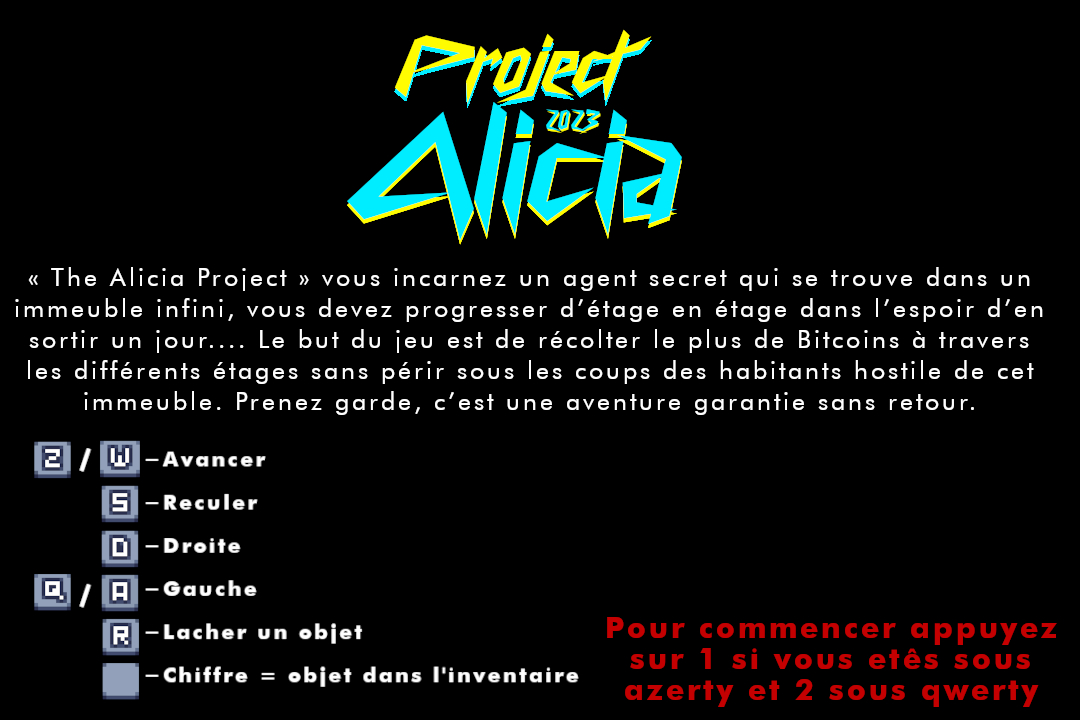
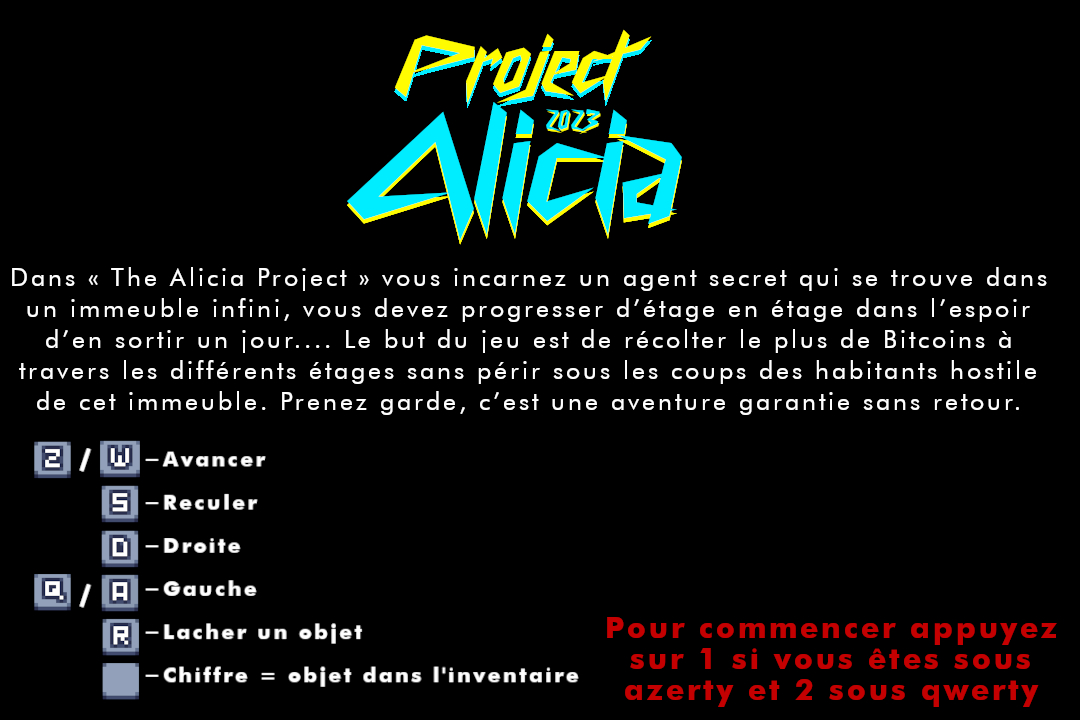
add bg image

Changed region(s): [[0.0, 0.3667, 0.9778, 0.5806]]

diff --git a/Game.py b/Game.py
@@ -191,6 +191,9 @@ class Game():
     def play(self):
         running = True
         window, background = visuel.initialisation()
+        tuto = pygame.image.load("assets/tuto.jpg").convert()
+        window.blit(tuto, (0,0))
+        pygame.display.flip()
         self.change_layout()
         layout = self.layout
         if layout == 'f':

diff --git a/const.py b/const.py
@@ -57,7 +57,7 @@ image_stairs = "assets/stairs.png"
 image_gold = "assets/gold.png"
 image_potion = "assets/potion.png"
 image_small_potion = "assets/small_potion.png"
-image_big_potion = "assets/medium_potion.png"
+image_big_potion = "assets/big_potion.png"
 image_portoloin = "assets/portoloin.png"
 
 ##WEAPONS##

diff --git a/visuel.py b/visuel.py
@@ -62,6 +62,8 @@ def initialisation():
     ''' initializes the window and the background'''
     pygame.init()
     # Background
+
+
     background = pygame.image.load("assets/bg.jpg")
 
     # Window
